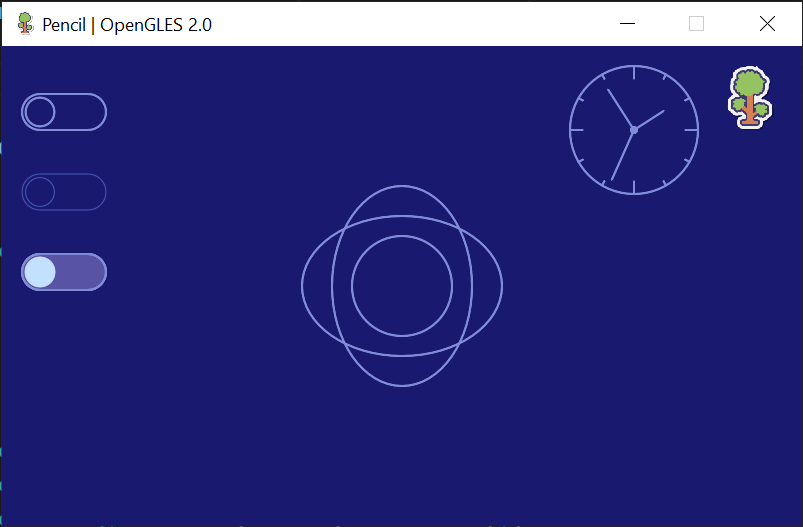
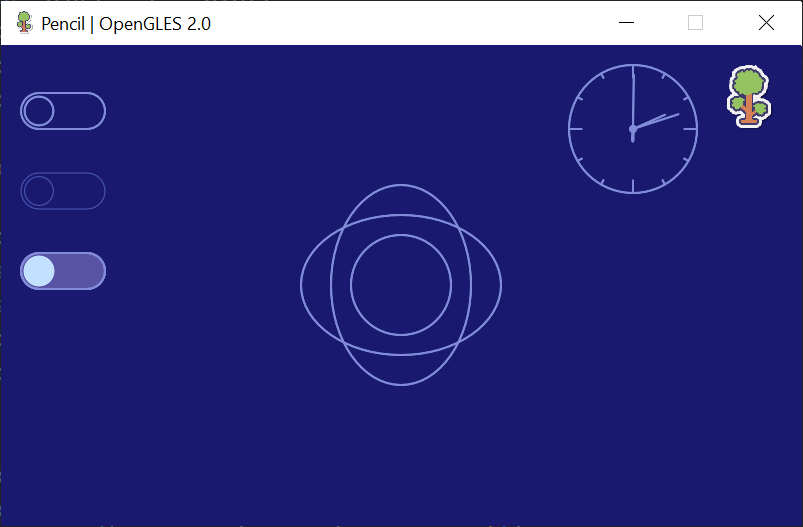
Update

diff --git a/App/ArcTest.cs b/App/ArcTest.cs
@@ -9,8 +9,6 @@ public static class ArcTest
     static Context context = new Context(new Renderer());
     public static RenderData Test()
     {
-        // var renderer = new Renderer();
-        // var context = new Context(renderer);
         context.BeginFrame();
 
         context.GetState().StrokeWidth = 2;
@@ -166,6 +164,14 @@ public static class ArcTest
             context.AddCommand(new Command(CommandType.LineTo, cx + len * (float)Math.Sin(dir), cy + len * (float)Math.Cos(dir)));
             context.Stroke();
         }
+
+        context.GetState().StrokeWidth = 3;
+        context.AddCommand(new Command(CommandType.MoveTo, cx, cy));
+        var secondExtendDir = -pointers.Last().dir;
+        var secondExtendLen = pointers.Last().len / 4.5f;
+        context.AddCommand(new Command(CommandType.LineTo, cx + secondExtendLen * (float)Math.Sin(secondExtendDir), cy + secondExtendLen * (float)Math.Cos(secondExtendDir)));
+        context.Stroke();
+
         context.RestoreState();
     }
 
